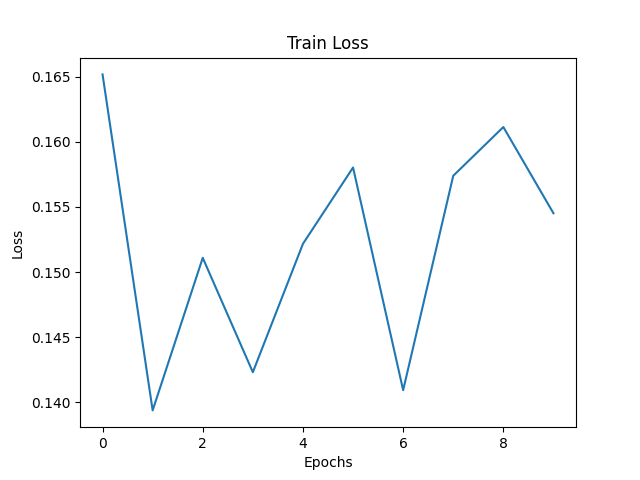
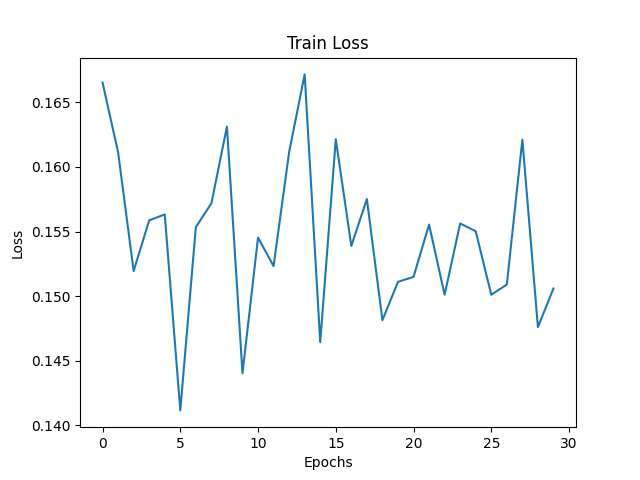
decoder

diff --git a/train.py b/train.py
@@ -13,16 +13,24 @@ from model import Model, Decoder
 from sprites_datagen import moving_sprites 
 from general_utils import AttrDict
 from sprites_env.envs import sprites
+from torchvision.utils import save_image
 
 
-def train(model, obs, reward_targets, optimizer):
-    optimizer.zero_grad()
-    reward_predicted = model(obs)
-    loss = model.criterion(reward_predicted, reward_targets)
-    loss.backward()
-    optimizer.step()
+def train(model, obs, reward_targets, optimizer, decoder_optimizer):
+    with torch.autograd.set_detect_anomaly(True):
+        optimizer.zero_grad()
+        reward_predicted, decoded_img = model(obs)
+        loss = model.criterion(reward_predicted, reward_targets)
+        loss.backward(retain_graph=True)
+        optimizer.step()
 
-    return loss.item()
+        decoder_optimizer.zero_grad()
+        decoded_img = decoded_img * 255
+        decoded_loss = model.criterion(decoded_img, obs[-1])
+        decoded_loss.backward()
+        decoder_optimizer.step()
+
+    return loss.item(), decoded_img
 
 # dataloader
 def dataloader(image_resolution, time_steps, batch_size):
@@ -53,10 +61,21 @@ def parse_args():
     parser.add_argument('--tasks', type=int, default=1)
     parser.add_argument('--conditioning_frames', type=int, default=4)
     parser.add_argument('--num_epochs', type=int, default=30)
-    parser.add_argument('--batch_size', type=int, default=1) #or?
+    parser.add_argument('--batch_size', type=int, default=32)
     parser.add_argument('--env', type=str, default='Sprites-v0')
     args = parser.parse_args()
     return args
+
+# create a directory to save the results
+def make_dir():
+    image_dir = 'Decoded_images'
+    if not os.path.exists(image_dir):
+        os.makedirs(image_dir)
+
+# save the reconstructed images as generated by the model
+def save_decod_img(img, epoch):
+    img = img.view(img.size(0), 1, 64, 64)
+    save_image(img, './Decoded_images/epoch{}.png'.format(epoch))
 
 def main():
     # parse arguments
@@ -67,11 +86,11 @@ def main():
     # load data
     dl, traj_images = dataloader(args.image_resolution, t, args.batch_size)
 
-    data = torch.zeros(len(dl), t-f, f+1, args.image_resolution, args.image_resolution)  
+    data = torch.zeros(len(dl), args.batch_size, t-f, f+1, args.image_resolution, args.image_resolution)  
     for i, batch in enumerate(dl):
-        traj = batch['images'].squeeze() # traj: (max_seq_len=t, 3, 64, 64) 
-        for k in range(t-f):
-            data[i][k] = traj[k:k+f+1, 0, :, :].squeeze()
+        for j, traj in enumerate(batch['images']): # traj: (max_seq_len=t, 3, 64, 64) 
+            for k in range(t-f):
+                data[i][j][k] = traj[k:k+f+1, 0, :, :].squeeze()
 
     # initialize the environment
     env = gym.make(args.env)
@@ -79,25 +98,31 @@ def main():
     device = torch.device('cuda' if torch.cuda.is_available() else 'cpu')
     data = data.to(device)
 
-    model = Model(t, f+1, args.tasks, args.image_resolution, device).to(device)
+    decoder = Decoder().to(device)
+    model = Model(t, f+1, args.tasks, args.image_resolution, device, decoder).to(device)
+    make_dir()
     optimizer = torch.optim.Adam(model.parameters(), lr=args.learning_rate)
+    decoder_optimizer = torch.optim.Adam(decoder.parameters(), lr=args.learning_rate)
     train_loss = []
 
     for epoch in range(args.num_epochs):
         running_loss = 0.0
         for i, batch in enumerate(dl):
             # average_loss_traj = 0.0
-            reward_targets = batch['rewards']['vertical_position'].squeeze() # change when needed
-            for k in range(t-f):
-                obs = data[i][k] # (f+1, 64, 64)               
-                loss = train(model, obs, reward_targets, optimizer) # here it's assumed that there's only one task - how to fix it?
-                running_loss += loss
+            for j, reward_targets in enumerate (batch['rewards']['vertical_position']): # change when needed
+                for k in range(t-f):
+                    obs = data[i][j][k] # (f+1, 64, 64)               
+                    loss, decoded_img = train(model, obs, reward_targets, optimizer, decoder_optimizer) # here it's assumed that there's only one task - how to fix it?
+                    running_loss += loss
             # average_loss_traj += loss
         
         # print or store data
-        running_loss = running_loss / (len(dl)*(t-f))
+        running_loss = running_loss / (len(dl)*args.batch_size*(t-f))
         print('Epoch: {} \tLoss: {:.6f}'.format(epoch, running_loss))
         train_loss.append(running_loss)
+
+        if epoch % 5 == 0:
+            save_decod_img(decoded_img.cpu().data, epoch)
 
     # visualize results: loss
     plt.figure()

diff --git a/model.py b/model.py
@@ -73,7 +73,7 @@ class LSTM(nn.Module):
 
 
 class Model(nn.Module):
-    def __init__(self, time_steps, frames, tasks, image_resolution, device):
+    def __init__(self, time_steps, frames, tasks, image_resolution, device, decoder):
         super(Model, self).__init__()
         self.encoder = Encoder().to(device)
         self.mlp = MLP(input_size=image_resolution*frames, output_size=image_resolution).to(device)
@@ -85,8 +85,7 @@ class Model(nn.Module):
         self.image_resolution = image_resolution
         self.device = device
         self.loss = nn.MSELoss()
-        self.decoder = Decoder().to(device)
-        # self.h = torch.zeros(self.T, self.image_resolution)
+        self.decoder = decoder
 
     # return the prediction of T future rewards given N conditioning frames
     def forward(self, obs):
@@ -102,7 +101,7 @@ class Model(nn.Module):
 
         z_mlp = self.mlp(z.flatten()) # (64,)
         h = self.lstm(z_mlp) # (T, 64)
-        # self.h = torch.add(self.h, h)
+        decoded_img = self.decoder(z_mlp.detach())
                 
         # then feed h to each reward head to predict the reward of all time steps for every task
         reward_predicted = []
@@ -113,7 +112,7 @@ class Model(nn.Module):
             r_t = reward_head(h) # (T,) 
             reward_predicted.append(r_t)
         reward_predicted = torch.stack(reward_predicted, dim=0) # should be (K, T)
-        return reward_predicted
+        return reward_predicted, decoded_img
                        
     def criterion(self, reward_predicted, reward_targets):
         reward_predicted = reward_predicted.squeeze()
@@ -130,11 +129,6 @@ class Model(nn.Module):
             decoded_img = self.decoder(z_t).squeeze()
             output.append(decoded_img.detach().numpy())
 
-        # output = []
-        # for t in range(self.T):
-        #     decoded_img = self.decoder(self.h[t]).squeeze()
-        #     output.append(decoded_img.detach().numpy())
-        # output = torch.stack(output, dim=0) # (T, 64, 64)
         return np.array(output)
 
 
